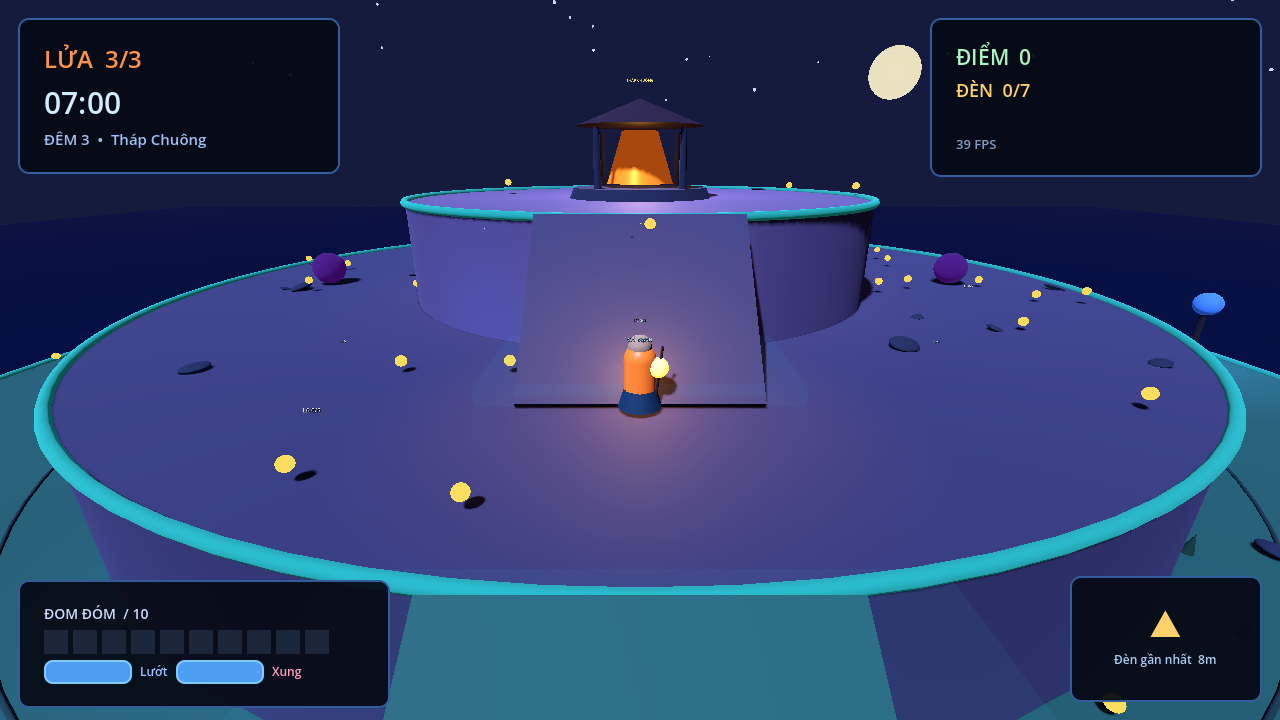
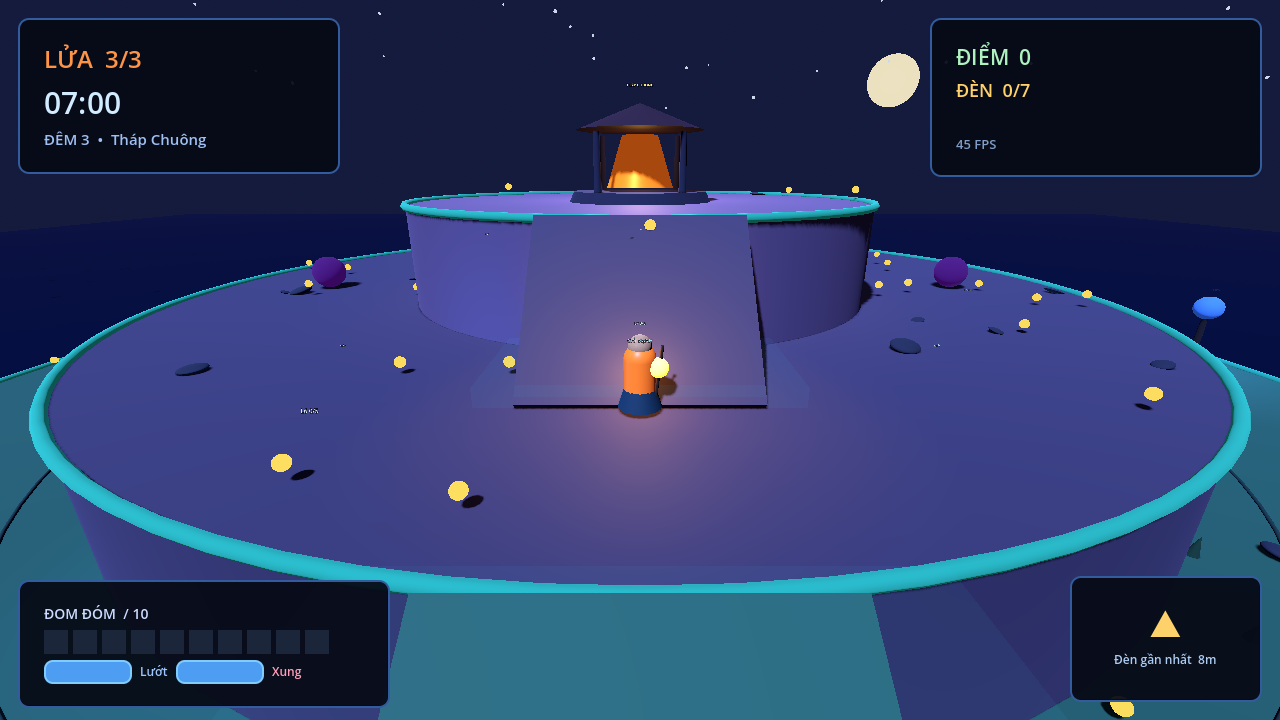
phase 2: record final evidence and WSL verification

diff --git a/docs/proof/phase-2/README.md b/docs/proof/phase-2/README.md
@@ -18,6 +18,8 @@ python game.py
 - `verify-phase1.log`: 11/11 Phase 1 checks pass.
 - `verify-phase2.log`: 15 Phase 2 checks pass, including determinism and 21,600 Night 3
   ticks in 0.54 s.
+- `wsl-verify.log`: the same Phase 1/2 checks pass under WSL Ubuntu with Python 3.14.4;
+  21,600 Night 3 ticks finish in 1.48 s.
 - `night3-determinism-1.jsonl` and `night3-determinism-2.jsonl`: identical SHA-256.
 - `build-web.log`: Godot Web export succeeds (`index.html`, `index.js`, `index.pck`,
   `index.wasm`).
